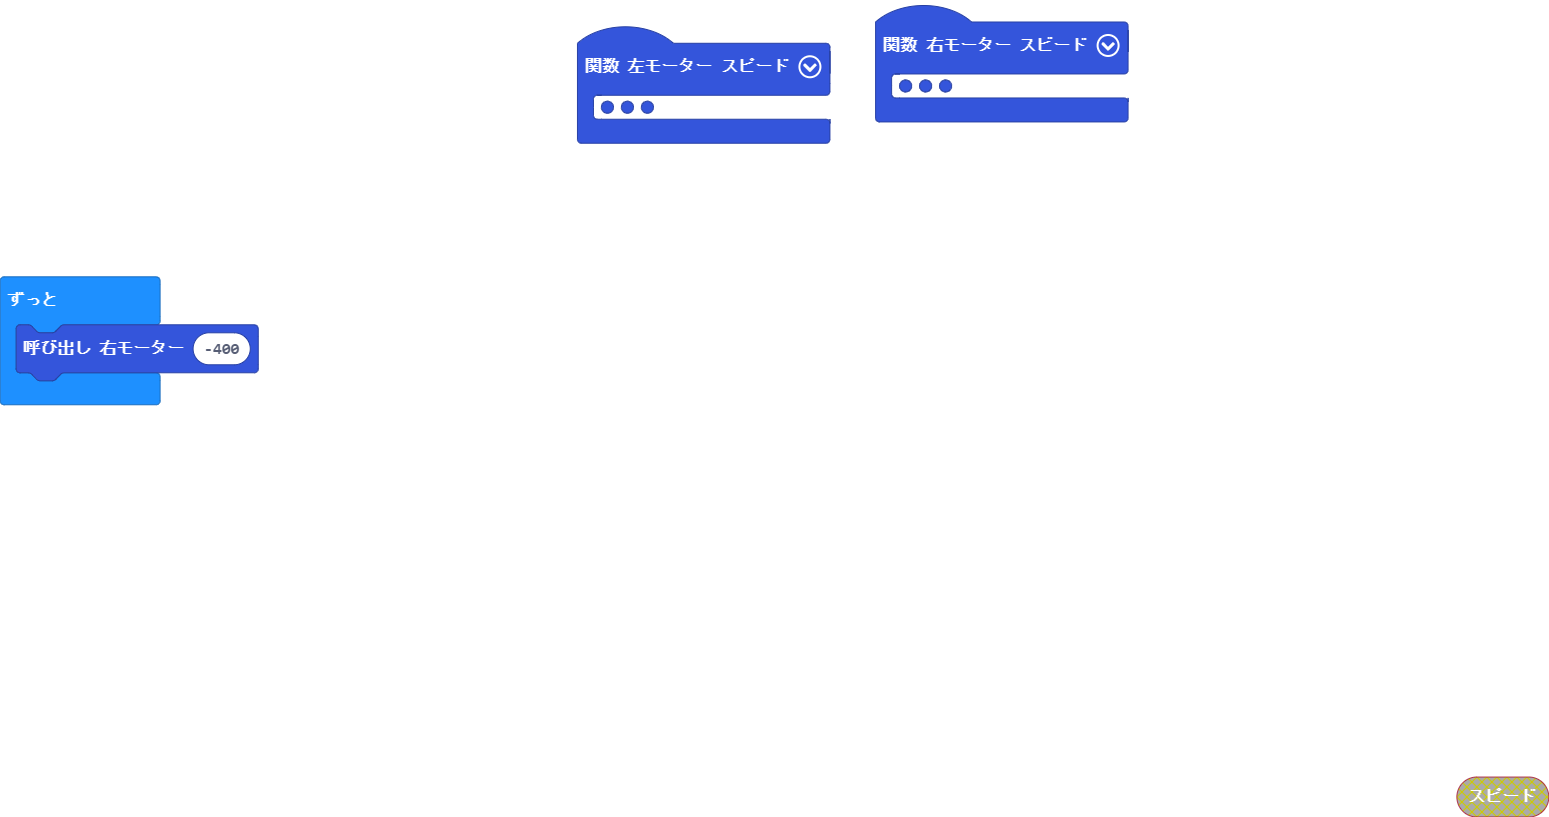
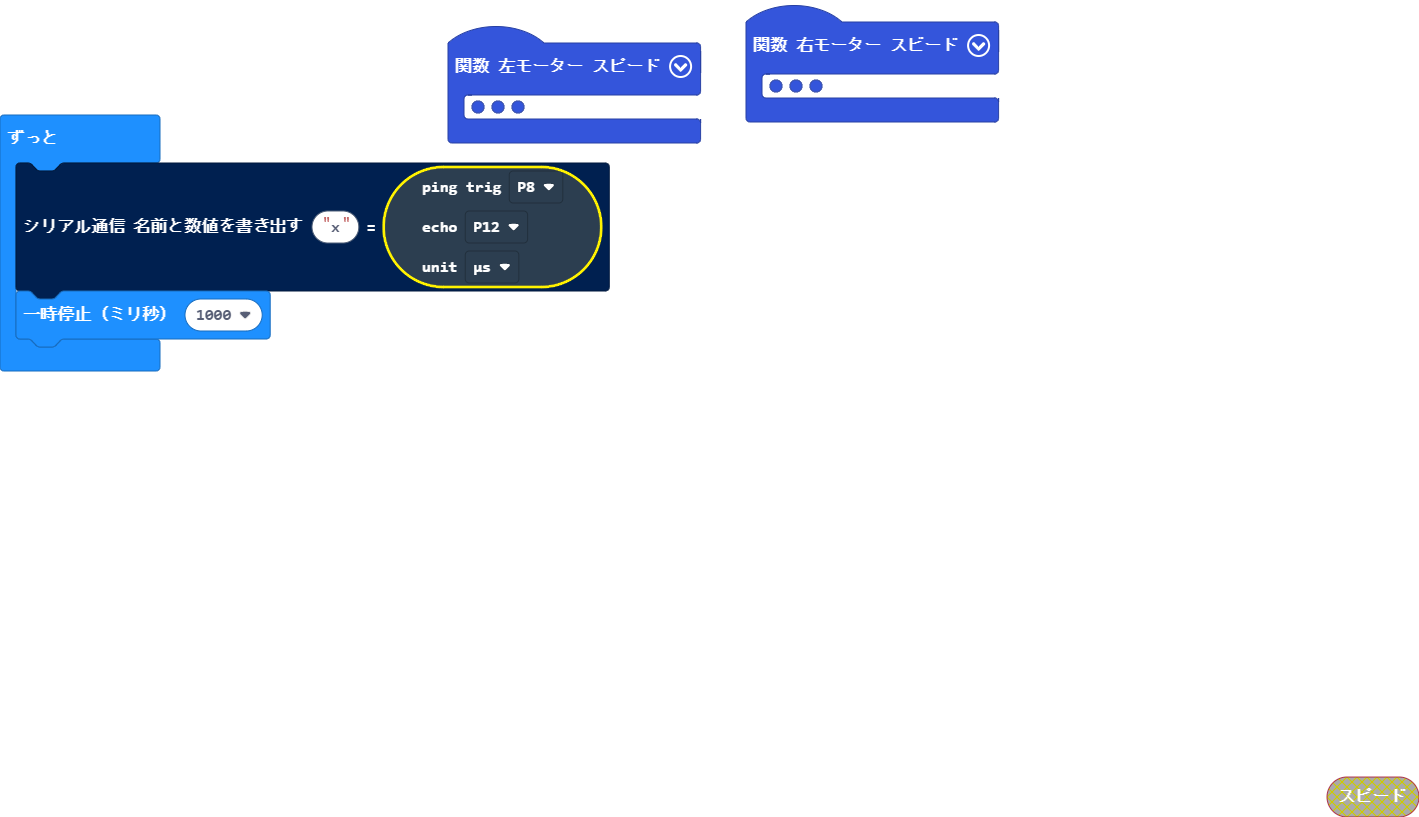
sonar

Changed region(s): [[0.0, 0.0, 0.7442, 0.5202], [0.9302, 0.9486, 1.0, 1.0], [0.6822, 0.1224, 0.7442, 0.153]]

diff --git a/main.ts b/main.ts
@@ -45,5 +45,10 @@ function 右モーター (スビード: number) {
     }
 }
 basic.forever(function () {
-    右モーター(-400)
+    serial.writeValue("x", sonar.ping(
+    DigitalPin.P8,
+    DigitalPin.P12,
+    PingUnit.MicroSeconds
+    ))
+    basic.pause(1000)
 })
